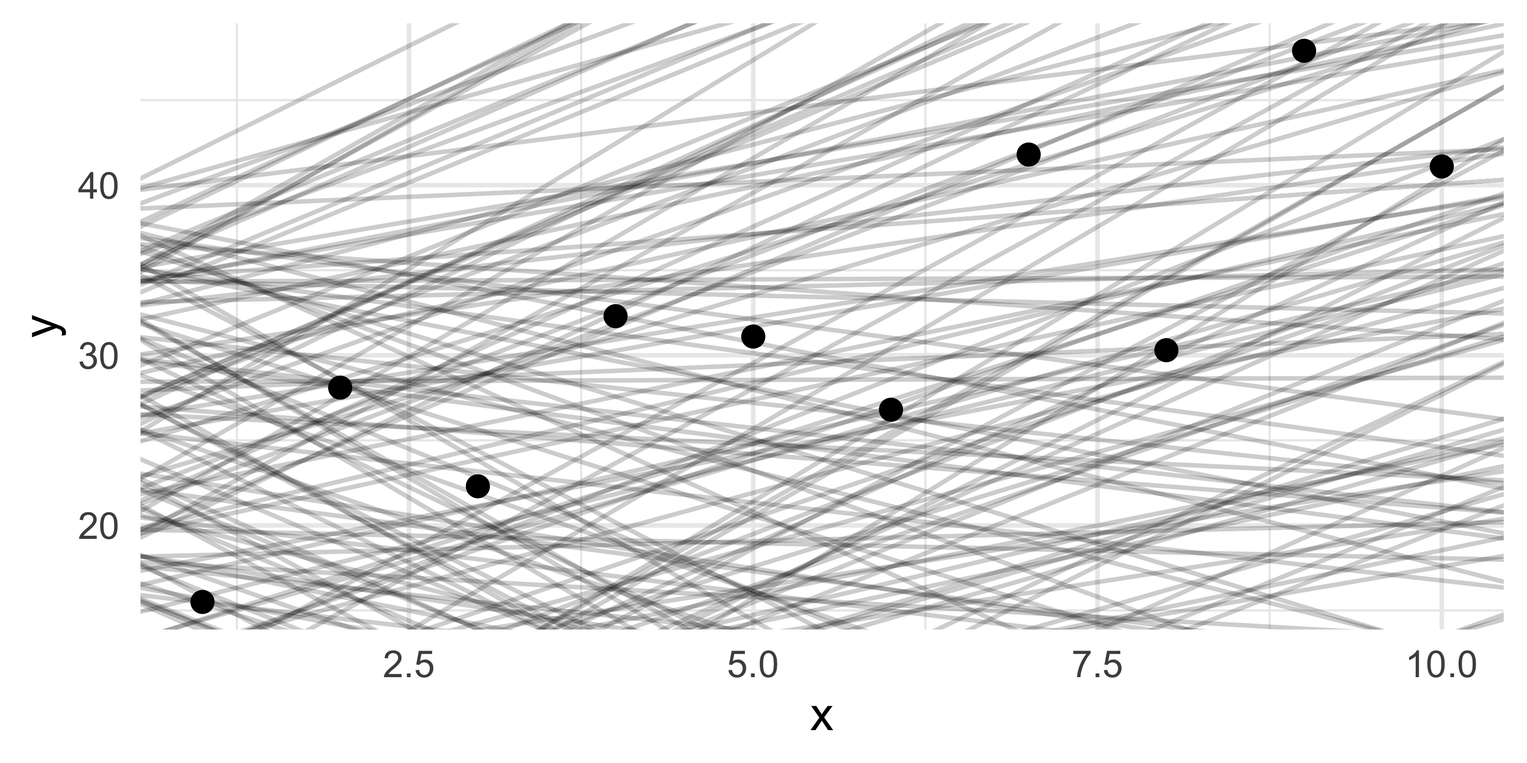
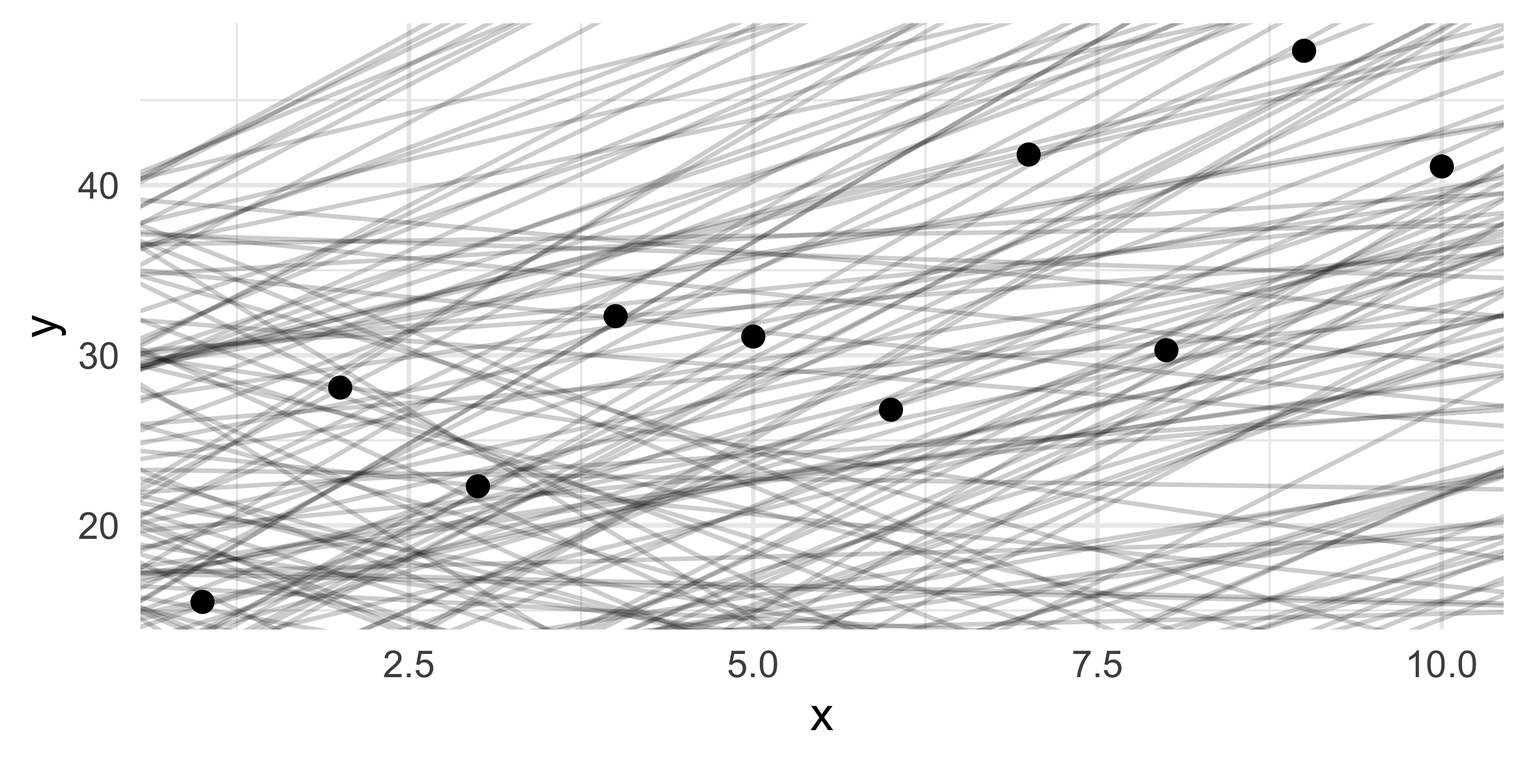
cleaning up slides

diff --git a/docs/slides.html b/docs/slides.html
@@ -231,8 +231,8 @@ y = \beta_0 + \beta_1 x_1 + \epsilon
 
 <img data-src="slides_files/figure-revealjs/unnamed-chunk-2-1.png" class="quarto-figure quarto-figure-center r-stretch" width="960"></section>
 <section>
-<section id="building-models" class="title-slide slide level1 center" data-background-color="black" data-background-image="media/contour.png" data-background-size="initial" data-background-position="right">
-<h1>Building Models</h1>
+<section id="how-are-models-built" class="title-slide slide level1 center" data-background-color="black" data-background-image="media/contour.png" data-background-size="initial" data-background-position="right">
+<h1>How Are Models Built</h1>
 
 </section>
 <section id="random-search" class="slide level2 smaller">
@@ -246,12 +246,12 @@ y = \beta_0 + \beta_1 x_1 + \epsilon
 <span id="cb1-3"><a href=""></a><span class="fu">summary</span>( models )</span></code></pre></div><button title="Copy to Clipboard" class="code-copy-button"><i class="bi"></i></button></div>
 <div class="cell-output cell-output-stdout">
 <pre><code>     beta0             beta1        
- Min.   :-19.701   Min.   :-4.8742  
- 1st Qu.: -3.205   1st Qu.:-2.7951  
- Median : 10.277   Median :-0.3867  
- Mean   : 10.617   Mean   :-0.1997  
- 3rd Qu.: 25.748   3rd Qu.: 2.3198  
- Max.   : 39.165   Max.   : 4.9441  </code></pre>
+ Min.   :-19.874   Min.   :-4.9913  
+ 1st Qu.: -5.517   1st Qu.:-2.3993  
+ Median :  8.038   Median : 0.1583  
+ Mean   :  8.308   Mean   : 0.1111  
+ 3rd Qu.: 21.631   3rd Qu.: 2.6810  
+ Max.   : 39.533   Max.   : 4.9827  </code></pre>
 </div>
 </div>
 </div><div class="column" style="width:50%;">
@@ -272,14 +272,25 @@ y = \beta_0 + \beta_1 x_1 + \epsilon
 <h2>Building A Model - Search Criterion</h2>
 
 <img data-src="slides_files/figure-revealjs/unnamed-chunk-5-1.png" class="quarto-figure quarto-figure-center r-stretch" width="960"></section>
+<section id="building-a-model---search-criterion-1" class="slide level2">
+<h2>Building A Model - Search Criterion</h2>
+
+<img data-src="slides_files/figure-revealjs/unnamed-chunk-6-1.png" class="quarto-figure quarto-figure-center r-stretch" width="960"></section>
 <section id="searching-random-model-space" class="slide level2">
 <h2>Searching Random Model Space</h2>
+<p>Define a function to sum the residual distance between each observation and the fit line, <span class="math inline">\(\epsilon = (y_i - \hat{y}_i)^2\)</span>.</p>
+<p>from</p>
+<p><span class="math display">\[
+y = \beta_0 + \beta_1 x_1 + \epsilon
+\]</span></p>
+<div class="fragment">
 <div class="cell" data-layout-align="center">
 <div class="code-copy-outer-scaffold"><div class="sourceCode cell-code" id="cb3"><pre class="sourceCode numberSource r number-lines code-with-copy"><code class="sourceCode r"><span id="cb3-1"><a href=""></a>model_distance <span class="ot">&lt;-</span> <span class="cf">function</span>( intercept, slope, X, Y ) {</span>
 <span id="cb3-2"><a href=""></a>  yhat <span class="ot">&lt;-</span> intercept <span class="sc">+</span> slope <span class="sc">*</span> X</span>
 <span id="cb3-3"><a href=""></a>  diff <span class="ot">&lt;-</span> Y <span class="sc">-</span> yhat</span>
 <span id="cb3-4"><a href=""></a>  <span class="fu">return</span>( <span class="fu">sqrt</span>( <span class="fu">mean</span>( diff <span class="sc">^</span> <span class="dv">2</span> ) ) )</span>
 <span id="cb3-5"><a href=""></a>}</span></code></pre></div><button title="Copy to Clipboard" class="code-copy-button"><i class="bi"></i></button></div>
+</div>
 </div>
 </section>
 <section id="searching-random-model-space-1" class="slide level2">
@@ -294,13 +305,13 @@ y = \beta_0 + \beta_1 x_1 + \epsilon
 <span id="cb4-7"><a href=""></a>}</span>
 <span id="cb4-8"><a href=""></a><span class="fu">head</span>( models )</span></code></pre></div><button title="Copy to Clipboard" class="code-copy-button"><i class="bi"></i></button></div>
 <div class="cell-output cell-output-stdout">
-<pre><code>        beta0      beta1     dist
-1  29.4771867 -4.2599426 32.82769
-2 -10.8590475  1.9510084 32.33478
-3   0.6078845  2.3252804 19.07712
-4  -2.2314267  2.3033720 21.93798
-5  32.3668526  4.6032549 27.09056
-6  11.5869291 -0.1791617 23.20218</code></pre>
+<pre><code>       beta0     beta1      dist
+1 11.2636153 -3.268664 42.323088
+2 -0.5801625 -3.021495 51.802924
+3 -2.5707176 -1.237829 42.891707
+4  6.8874964 -1.551918 35.844821
+5 13.8142026  1.772501  9.999886
+6 16.6033099 -1.491209 26.664868</code></pre>
 </div>
 </div>
 </section>
@@ -313,7 +324,7 @@ y = \beta_0 + \beta_1 x_1 + \epsilon
 <div class="cell-output-display">
 <div class="quarto-figure quarto-figure-center">
 <figure>
-<p><img data-src="slides_files/figure-revealjs/unnamed-chunk-8-1.png" class="quarto-figure quarto-figure-center" width="960"></p>
+<p><img data-src="slides_files/figure-revealjs/unnamed-chunk-9-1.png" class="quarto-figure quarto-figure-center" width="960"></p>
 </figure>
 </div>
 </div>
@@ -342,7 +353,7 @@ y = \beta_0 + \beta_1 x_1 + \epsilon
 <span id="cb7-4"><a href=""></a>  <span class="fu">geom_point</span>()</span></code></pre></div><button title="Copy to Clipboard" class="code-copy-button"><i class="bi"></i></button></div>
 
 </div>
-<img data-src="slides_files/figure-revealjs/unnamed-chunk-10-1.png" class="quarto-figure quarto-figure-center r-stretch" width="960"></section>
+<img data-src="slides_files/figure-revealjs/unnamed-chunk-11-1.png" class="quarto-figure quarto-figure-center r-stretch" width="960"></section>
 <section id="systematic-grid-search" class="slide level2 smaller">
 <h2>Systematic Grid Search</h2>
 <p>We could then systematically search the <span class="math inline">\(\beta_0\)</span>, <span class="math inline">\(\beta_1\)</span> response space for the best set of coefficients.</p>
@@ -352,7 +363,7 @@ y = \beta_0 + \beta_1 x_1 + \epsilon
 <div class="cell-output-display">
 <div class="quarto-figure quarto-figure-center">
 <figure>
-<p><img data-src="slides_files/figure-revealjs/unnamed-chunk-11-1.png" class="quarto-figure quarto-figure-center" width="960"></p>
+<p><img data-src="slides_files/figure-revealjs/unnamed-chunk-12-1.png" class="quarto-figure quarto-figure-center" width="960"></p>
 </figure>
 </div>
 </div>
@@ -489,14 +500,28 @@ F-statistic: 16.57 on 1 and 8 DF,  p-value: 0.003581</code></pre>
 </section>
 <section id="tidying-model-output-with-broom" class="slide level2">
 <h2>Tidying Model Output with <code>broom</code></h2>
+<center>
+<img data-src="media/broom_logo.png">
+</center>
 <p>The <code>broom</code> package turns model objects into <code>tibble</code>s:</p>
 <ul>
 <li><code>tidy()</code>: one row per term (coefficients, <em>SE</em>, <em>t</em>, <em>P</em>)</li>
 <li><code>glance()</code>: one row per model (<span class="math inline">\(R^2\)</span>, <em>F</em>, <em>P</em>, AIC, …)</li>
 <li><code>augment()</code>: one row per observation (fitted values, residuals)</li>
 </ul>
+</section>
+<section id="installing-the-tidyverse-models" class="slide level2">
+<h2>Installing the Tidyverse Models</h2>
+<p>There are several packages that help tidy up our statistical models that can be installed by:</p>
 <div class="cell" data-layout-align="center">
-<div class="code-copy-outer-scaffold"><div class="sourceCode cell-code" id="cb22"><pre class="sourceCode numberSource r number-lines code-with-copy"><code class="sourceCode r"><span id="cb22-1"><a href=""></a><span class="fu">glance</span>( fit )</span></code></pre></div><button title="Copy to Clipboard" class="code-copy-button"><i class="bi"></i></button></div>
+<div class="code-copy-outer-scaffold"><div class="sourceCode cell-code" id="cb22"><pre class="sourceCode numberSource r number-lines code-with-copy"><code class="sourceCode r"><span id="cb22-1"><a href=""></a><span class="fu">install.packages</span>(<span class="st">"tidymodels"</span>)</span>
+<span id="cb22-2"><a href=""></a><span class="fu">library</span>( broom )</span></code></pre></div><button title="Copy to Clipboard" class="code-copy-button"><i class="bi"></i></button></div>
+</div>
+</section>
+<section id="tidying-model-output" class="slide level2 smaller">
+<h2>Tidying Model Output</h2>
+<div class="cell" data-layout-align="center">
+<div class="code-copy-outer-scaffold"><div class="sourceCode cell-code" id="cb23"><pre class="sourceCode numberSource r number-lines code-with-copy"><code class="sourceCode r"><span id="cb23-1"><a href=""></a><span class="fu">glance</span>( fit )</span></code></pre></div><button title="Copy to Clipboard" class="code-copy-button"><i class="bi"></i></button></div>
 <div class="cell-output cell-output-stdout">
 <pre><code># A tibble: 1 × 12
   r.squared adj.r.squared sigma statistic p.value    df logLik   AIC   BIC
@@ -505,15 +530,13 @@ F-statistic: 16.57 on 1 and 8 DF,  p-value: 0.003581</code></pre>
 # ℹ 3 more variables: deviance &lt;dbl&gt;, df.residual &lt;int&gt;, nobs &lt;int&gt;</code></pre>
 </div>
 </div>
-</section>
-<section id="the-overall-p-value" class="slide level2">
-<h2>The Overall <em>P</em>-value</h2>
-<p><code>anova( fit )</code> only gives the whole-model test when there is a single predictor; with more, it tests each term in turn. <code>glance()</code> always has it.</p>
+<div class="fragment">
 <div class="cell" data-layout-align="center">
-<div class="code-copy-outer-scaffold"><div class="sourceCode cell-code" id="cb24"><pre class="sourceCode numberSource r number-lines code-with-copy"><code class="sourceCode r"><span id="cb24-1"><a href=""></a><span class="fu">glance</span>( fit )<span class="sc">$</span>p.value</span></code></pre></div><button title="Copy to Clipboard" class="code-copy-button"><i class="bi"></i></button></div>
+<div class="code-copy-outer-scaffold"><div class="sourceCode cell-code" id="cb25"><pre class="sourceCode numberSource r number-lines code-with-copy"><code class="sourceCode r"><span id="cb25-1"><a href=""></a><span class="fu">glance</span>( fit )<span class="sc">$</span>p.value</span></code></pre></div><button title="Copy to Clipboard" class="code-copy-button"><i class="bi"></i></button></div>
 <div class="cell-output cell-output-stdout">
 <pre><code>    value 
 0.0035813 </code></pre>
+</div>
 </div>
 </div>
 </section></section>
@@ -525,24 +548,24 @@ F-statistic: 16.57 on 1 and 8 DF,  p-value: 0.003581</code></pre>
 <section id="model-diagnostics---residuals" class="slide level2">
 <h2>Model Diagnostics - Residuals</h2>
 <div class="cell" data-layout-align="center">
-<div class="code-copy-outer-scaffold"><div class="sourceCode cell-code" id="cb26"><pre class="sourceCode numberSource r number-lines code-with-copy"><code class="sourceCode r"><span id="cb26-1"><a href=""></a><span class="fu">plot</span>( fit, <span class="at">which =</span> <span class="dv">1</span> )</span></code></pre></div><button title="Copy to Clipboard" class="code-copy-button"><i class="bi"></i></button></div>
-
-</div>
-<img data-src="slides_files/figure-revealjs/unnamed-chunk-20-1.png" class="quarto-figure quarto-figure-center r-stretch" width="960"></section>
-<section id="normality-of-the-data" class="slide level2">
-<h2>Normality Of the Data</h2>
-<div class="cell" data-layout-align="center">
-<div class="code-copy-outer-scaffold"><div class="sourceCode cell-code" id="cb27"><pre class="sourceCode numberSource r number-lines code-with-copy"><code class="sourceCode r"><span id="cb27-1"><a href=""></a><span class="fu">plot</span>( fit, <span class="at">which =</span> <span class="dv">2</span> )</span></code></pre></div><button title="Copy to Clipboard" class="code-copy-button"><i class="bi"></i></button></div>
-
-</div>
-<img data-src="slides_files/figure-revealjs/unnamed-chunk-21-1.png" class="quarto-figure quarto-figure-center r-stretch" width="960"></section>
-<section id="leverage" class="slide level2">
-<h2>Leverage</h2>
-<div class="cell" data-layout-align="center">
-<div class="code-copy-outer-scaffold"><div class="sourceCode cell-code" id="cb28"><pre class="sourceCode numberSource r number-lines code-with-copy"><code class="sourceCode r"><span id="cb28-1"><a href=""></a><span class="fu">plot</span>( fit, <span class="at">which=</span><span class="dv">5</span> )</span></code></pre></div><button title="Copy to Clipboard" class="code-copy-button"><i class="bi"></i></button></div>
+<div class="code-copy-outer-scaffold"><div class="sourceCode cell-code" id="cb27"><pre class="sourceCode numberSource r number-lines code-with-copy"><code class="sourceCode r"><span id="cb27-1"><a href=""></a><span class="fu">plot</span>( fit, <span class="at">which =</span> <span class="dv">1</span> )</span></code></pre></div><button title="Copy to Clipboard" class="code-copy-button"><i class="bi"></i></button></div>
 
 </div>
 <img data-src="slides_files/figure-revealjs/unnamed-chunk-22-1.png" class="quarto-figure quarto-figure-center r-stretch" width="960"></section>
+<section id="normality-of-the-data" class="slide level2">
+<h2>Normality Of the Data</h2>
+<div class="cell" data-layout-align="center">
+<div class="code-copy-outer-scaffold"><div class="sourceCode cell-code" id="cb28"><pre class="sourceCode numberSource r number-lines code-with-copy"><code class="sourceCode r"><span id="cb28-1"><a href=""></a><span class="fu">plot</span>( fit, <span class="at">which =</span> <span class="dv">2</span> )</span></code></pre></div><button title="Copy to Clipboard" class="code-copy-button"><i class="bi"></i></button></div>
+
+</div>
+<img data-src="slides_files/figure-revealjs/unnamed-chunk-23-1.png" class="quarto-figure quarto-figure-center r-stretch" width="960"></section>
+<section id="leverage" class="slide level2">
+<h2>Leverage</h2>
+<div class="cell" data-layout-align="center">
+<div class="code-copy-outer-scaffold"><div class="sourceCode cell-code" id="cb29"><pre class="sourceCode numberSource r number-lines code-with-copy"><code class="sourceCode r"><span id="cb29-1"><a href=""></a><span class="fu">plot</span>( fit, <span class="at">which=</span><span class="dv">5</span> )</span></code></pre></div><button title="Copy to Clipboard" class="code-copy-button"><i class="bi"></i></button></div>
+
+</div>
+<img data-src="slides_files/figure-revealjs/unnamed-chunk-24-1.png" class="quarto-figure quarto-figure-center r-stretch" width="960"></section>
 <section id="decomposition-of-variance" class="slide level2">
 <h2>Decomposition of Variance</h2>
 <p>The terms in this table are:</p>
@@ -578,14 +601,14 @@ F-statistic: 16.57 on 1 and 8 DF,  p-value: 0.003581</code></pre>
 <p>The terms in this table are:</p>
 <ul>
 <li><p>The <span class="math inline">\(F\)</span>-statistic is from a known distribution and is defined by the ratio of Mean Squared values.</p></li>
-<li><p><code>Pr(&gt;F)</code> is the probability associated with the value of the <span class="math inline">\(F\)</span>-statistic and is dependent upon the degrees of freedom for the model and residuals.</p></li>
+<li><p><code>Pr(&gt;F)</code> is the probability associated with the value of the <span class="math inline">\(F\)</span>-statistic and is dependent upon the degrees of freedom for the <em>entire model</em> and residuals.</p></li>
 </ul>
 </section>
 <section id="decomposition-of-variance-4" class="slide level2">
 <h2>Decomposition of Variance</h2>
 <p>The classis ANOVA Table</p>
 <div class="cell" data-layout-align="center">
-<div class="code-copy-outer-scaffold"><div class="sourceCode cell-code" id="cb29"><pre class="sourceCode numberSource r number-lines code-with-copy"><code class="sourceCode r"><span id="cb29-1"><a href=""></a><span class="fu">anova</span>( fit )</span></code></pre></div><button title="Copy to Clipboard" class="code-copy-button"><i class="bi"></i></button></div>
+<div class="code-copy-outer-scaffold"><div class="sourceCode cell-code" id="cb30"><pre class="sourceCode numberSource r number-lines code-with-copy"><code class="sourceCode r"><span id="cb30-1"><a href=""></a><span class="fu">anova</span>( fit )</span></code></pre></div><button title="Copy to Clipboard" class="code-copy-button"><i class="bi"></i></button></div>
 <div class="cell-output cell-output-stdout">
 <pre><code>Analysis of Variance Table
 
@@ -597,11 +620,27 @@ Residuals  8 274.58   34.32
 Signif. codes:  0 '***' 0.001 '**' 0.01 '*' 0.05 '.' 0.1 ' ' 1</code></pre>
 </div>
 </div>
+<p>&nbsp;</p>
+<div class="fragment">
+<div class="callout callout-note callout-titled callout-style-default">
+<div class="callout-body">
+<div class="callout-title">
+<div class="callout-icon-container">
+<i class="callout-icon"></i>
+</div>
+<p><strong>Note</strong></p>
+</div>
+<div class="callout-content">
+<p><strong>Warning:</strong> <code>anova( fit )</code> only gives the whole-model test when there is a <strong>single predictor</strong>; with more, it tests each term sequentially.</p>
+</div>
+</div>
+</div>
+</div>
 </section>
 <section id="variance-explained" class="slide level2">
 <h2>Variance Explained</h2>
 <div class="cell" data-layout-align="center">
-<div class="code-copy-outer-scaffold"><div class="sourceCode cell-code" id="cb31"><pre class="sourceCode numberSource r number-lines code-with-copy"><code class="sourceCode r"><span id="cb31-1"><a href=""></a><span class="fu">summary</span>( fit )</span></code></pre></div><button title="Copy to Clipboard" class="code-copy-button"><i class="bi"></i></button></div>
+<div class="code-copy-outer-scaffold"><div class="sourceCode cell-code" id="cb32"><pre class="sourceCode numberSource r number-lines code-with-copy"><code class="sourceCode r"><span id="cb32-1"><a href=""></a><span class="fu">summary</span>( fit )</span></code></pre></div><button title="Copy to Clipboard" class="code-copy-button"><i class="bi"></i></button></div>
 <div class="cell-output cell-output-stdout">
 <pre><code>
 Call:
@@ -632,8 +671,8 @@ R^2 = \frac{SS_{Model}}{SS_{Total}}
 \]</span></p>
 <div class="fragment">
 <div class="cell" data-layout-align="center">
-<div class="code-copy-outer-scaffold"><div class="sourceCode cell-code" id="cb33"><pre class="sourceCode numberSource r number-lines code-with-copy"><code class="sourceCode r"><span id="cb33-1"><a href=""></a><span class="fu">c</span>( <span class="st">`</span><span class="at">Regression R^2</span><span class="st">`</span> <span class="ot">=</span> <span class="fu">summary</span>( fit )<span class="sc">$</span>r.squared,</span>
-<span id="cb33-2"><a href=""></a>   <span class="st">`</span><span class="at">Squared Correlation</span><span class="st">`</span> <span class="ot">=</span> <span class="fu">as.numeric</span>( <span class="fu">cor.test</span>( df<span class="sc">$</span>x, df<span class="sc">$</span>y )<span class="sc">$</span>estimate<span class="sc">^</span><span class="dv">2</span> ) )</span></code></pre></div><button title="Copy to Clipboard" class="code-copy-button"><i class="bi"></i></button></div>
+<div class="code-copy-outer-scaffold"><div class="sourceCode cell-code" id="cb34"><pre class="sourceCode numberSource r number-lines code-with-copy"><code class="sourceCode r"><span id="cb34-1"><a href=""></a><span class="fu">c</span>( <span class="st">`</span><span class="at">Regression R^2</span><span class="st">`</span> <span class="ot">=</span> <span class="fu">summary</span>( fit )<span class="sc">$</span>r.squared,</span>
+<span id="cb34-2"><a href=""></a>   <span class="st">`</span><span class="at">Squared Correlation</span><span class="st">`</span> <span class="ot">=</span> <span class="fu">as.numeric</span>( <span class="fu">cor.test</span>( df<span class="sc">$</span>x, df<span class="sc">$</span>y )<span class="sc">$</span>estimate<span class="sc">^</span><span class="dv">2</span> ) )</span></code></pre></div><button title="Copy to Clipboard" class="code-copy-button"><i class="bi"></i></button></div>
 <div class="cell-output cell-output-stdout">
 <pre><code>     Regression R^2 Squared Correlation 
           0.6743782           0.6743782 </code></pre>
@@ -648,25 +687,25 @@ R^2 = \frac{SS_{Model}}{SS_{Total}}
 <h2>Helper Functions</h2>
 <p>Grabbing the predicted values <span class="math inline">\(\hat{y}\)</span> from the model.</p>
 <div class="cell" data-layout-align="center">
-<div class="code-copy-outer-scaffold"><div class="sourceCode cell-code" id="cb35"><pre class="sourceCode numberSource r number-lines code-with-copy"><code class="sourceCode r"><span id="cb35-1"><a href=""></a>df<span class="sc">$</span>yhat <span class="ot">&lt;-</span> <span class="fu">predict</span>( fit )</span>
-<span id="cb35-2"><a href=""></a>df <span class="sc">|&gt;</span> </span>
-<span id="cb35-3"><a href=""></a>  <span class="fu">ggplot</span>( <span class="fu">aes</span>(x,yhat) ) <span class="sc">+</span> <span class="fu">geom_line</span>() <span class="sc">+</span> <span class="fu">geom_point</span>() <span class="sc">+</span></span>
-<span id="cb35-4"><a href=""></a>  <span class="fu">geom_point</span>( <span class="fu">aes</span>(<span class="at">y=</span>y), <span class="at">col=</span><span class="st">"darkred"</span>, <span class="at">size=</span><span class="dv">2</span>)</span></code></pre></div><button title="Copy to Clipboard" class="code-copy-button"><i class="bi"></i></button></div>
+<div class="code-copy-outer-scaffold"><div class="sourceCode cell-code" id="cb36"><pre class="sourceCode numberSource r number-lines code-with-copy"><code class="sourceCode r"><span id="cb36-1"><a href=""></a>df<span class="sc">$</span>yhat <span class="ot">&lt;-</span> <span class="fu">predict</span>( fit )</span>
+<span id="cb36-2"><a href=""></a>df <span class="sc">|&gt;</span> </span>
+<span id="cb36-3"><a href=""></a>  <span class="fu">ggplot</span>( <span class="fu">aes</span>(x,yhat) ) <span class="sc">+</span> <span class="fu">geom_line</span>() <span class="sc">+</span> <span class="fu">geom_point</span>() <span class="sc">+</span></span>
+<span id="cb36-4"><a href=""></a>  <span class="fu">geom_point</span>( <span class="fu">aes</span>(<span class="at">y=</span>y), <span class="at">col=</span><span class="st">"darkred"</span>, <span class="at">size=</span><span class="dv">2</span>)</span></code></pre></div><button title="Copy to Clipboard" class="code-copy-button"><i class="bi"></i></button></div>
 
 </div>
-<img data-src="slides_files/figure-revealjs/unnamed-chunk-26-1.png" class="quarto-figure quarto-figure-center r-stretch" width="960"></section>
+<img data-src="slides_files/figure-revealjs/unnamed-chunk-28-1.png" class="quarto-figure quarto-figure-center r-stretch" width="960"></section>
 <section id="helper-functions---residuals" class="slide level2">
 <h2>Helper Functions - Residuals</h2>
 <p>The residuals are the distances between the observed value and its corresponding value on the fitted line.</p>
 <div class="cell" data-layout-align="center">
-<div class="code-copy-outer-scaffold"><div class="sourceCode cell-code" id="cb36"><pre class="sourceCode numberSource r number-lines code-with-copy"><code class="sourceCode r"><span id="cb36-1"><a href=""></a>df<span class="sc">$</span>residuals <span class="ot">&lt;-</span> <span class="fu">residuals</span>( fit ) </span>
-<span id="cb36-2"><a href=""></a>df <span class="sc">|&gt;</span></span>
-<span id="cb36-3"><a href=""></a>  <span class="fu">ggplot</span>( <span class="fu">aes</span>(yhat, residuals) ) <span class="sc">+</span> </span>
-<span id="cb36-4"><a href=""></a>  <span class="fu">geom_point</span>() <span class="sc">+</span> </span>
-<span id="cb36-5"><a href=""></a>  <span class="fu">geom_abline</span>( <span class="at">slope=</span><span class="dv">0</span>,<span class="at">intercept=</span><span class="dv">0</span>, <span class="at">color=</span><span class="st">"red"</span>)</span></code></pre></div><button title="Copy to Clipboard" class="code-copy-button"><i class="bi"></i></button></div>
+<div class="code-copy-outer-scaffold"><div class="sourceCode cell-code" id="cb37"><pre class="sourceCode numberSource r number-lines code-with-copy"><code class="sourceCode r"><span id="cb37-1"><a href=""></a>df<span class="sc">$</span>residuals <span class="ot">&lt;-</span> <span class="fu">residuals</span>( fit ) </span>
+<span id="cb37-2"><a href=""></a>df <span class="sc">|&gt;</span></span>
+<span id="cb37-3"><a href=""></a>  <span class="fu">ggplot</span>( <span class="fu">aes</span>(yhat, residuals) ) <span class="sc">+</span> </span>
+<span id="cb37-4"><a href=""></a>  <span class="fu">geom_point</span>() <span class="sc">+</span> </span>
+<span id="cb37-5"><a href=""></a>  <span class="fu">geom_abline</span>( <span class="at">slope=</span><span class="dv">0</span>,<span class="at">intercept=</span><span class="dv">0</span>, <span class="at">color=</span><span class="st">"red"</span>)</span></code></pre></div><button title="Copy to Clipboard" class="code-copy-button"><i class="bi"></i></button></div>
 
 </div>
-<img data-src="slides_files/figure-revealjs/unnamed-chunk-27-1.png" class="quarto-figure quarto-figure-center r-stretch" width="960"></section></section>
+<img data-src="slides_files/figure-revealjs/unnamed-chunk-29-1.png" class="quarto-figure quarto-figure-center r-stretch" width="960"></section></section>
 <section>
 <section id="comparing-models" class="title-slide slide level1 center" data-background-color="black" data-background-image="media/contour.png" data-background-size="initial" data-background-position="right">
 <h1>Comparing Models</h1>
@@ -684,10 +723,10 @@ R^2 = \frac{SS_{Model}}{SS_{Total}}
 <h2>New Data Set</h2>
 <p>Let’s start by looking at some air quality data, that is built into <code>R</code> as an example data set.</p>
 <div class="cell" data-layout-align="center">
-<div class="code-copy-outer-scaffold"><div class="sourceCode cell-code" id="cb37"><pre class="sourceCode numberSource r number-lines code-with-copy"><code class="sourceCode r"><span id="cb37-1"><a href=""></a>airquality <span class="sc">|&gt;</span></span>
-<span id="cb37-2"><a href=""></a>  <span class="fu">select</span>( <span class="sc">-</span>Month, <span class="sc">-</span>Day ) <span class="sc">|&gt;</span></span>
-<span id="cb37-3"><a href=""></a>  <span class="fu">filter</span>( <span class="sc">!</span><span class="fu">is.na</span>( Ozone ), <span class="sc">!</span><span class="fu">is.na</span>( Solar.R ) ) <span class="ot">-&gt;</span> df.air</span>
-<span id="cb37-4"><a href=""></a><span class="fu">summary</span>( df.air )</span></code></pre></div><button title="Copy to Clipboard" class="code-copy-button"><i class="bi"></i></button></div>
+<div class="code-copy-outer-scaffold"><div class="sourceCode cell-code" id="cb38"><pre class="sourceCode numberSource r number-lines code-with-copy"><code class="sourceCode r"><span id="cb38-1"><a href=""></a>airquality <span class="sc">|&gt;</span></span>
+<span id="cb38-2"><a href=""></a>  <span class="fu">select</span>( <span class="sc">-</span>Month, <span class="sc">-</span>Day ) <span class="sc">|&gt;</span></span>
+<span id="cb38-3"><a href=""></a>  <span class="fu">filter</span>( <span class="sc">!</span><span class="fu">is.na</span>( Ozone ), <span class="sc">!</span><span class="fu">is.na</span>( Solar.R ) ) <span class="ot">-&gt;</span> df.air</span>
+<span id="cb38-4"><a href=""></a><span class="fu">summary</span>( df.air )</span></code></pre></div><button title="Copy to Clipboard" class="code-copy-button"><i class="bi"></i></button></div>
 <div class="cell-output cell-output-stdout">
 <pre><code>     Ozone          Solar.R           Wind            Temp      
  Min.   :  1.0   Min.   :  7.0   Min.   : 2.30   Min.   :57.00  
@@ -706,9 +745,9 @@ R^2 = \frac{SS_{Model}}{SS_{Total}}
 y = \beta_0 + \beta_1 x_1 + \epsilon
 \]</span></p>
 <div class="cell" data-layout-align="center">
-<div class="code-copy-outer-scaffold"><div class="sourceCode cell-code" id="cb39"><pre class="sourceCode numberSource r number-lines code-with-copy"><code class="sourceCode r"><span id="cb39-1"><a href=""></a>fit.solar <span class="ot">&lt;-</span> <span class="fu">lm</span>( Ozone <span class="sc">~</span> Solar.R, <span class="at">data =</span> df.air )</span>
-<span id="cb39-2"><a href=""></a>fit.temp <span class="ot">&lt;-</span> <span class="fu">lm</span>( Ozone <span class="sc">~</span> Temp, <span class="at">data =</span> df.air )</span>
-<span id="cb39-3"><a href=""></a>fit.wind <span class="ot">&lt;-</span> <span class="fu">lm</span>( Ozone <span class="sc">~</span> Wind, <span class="at">data =</span> df.air )</span></code></pre></div><button title="Copy to Clipboard" class="code-copy-button"><i class="bi"></i></button></div>
+<div class="code-copy-outer-scaffold"><div class="sourceCode cell-code" id="cb40"><pre class="sourceCode numberSource r number-lines code-with-copy"><code class="sourceCode r"><span id="cb40-1"><a href=""></a>fit.solar <span class="ot">&lt;-</span> <span class="fu">lm</span>( Ozone <span class="sc">~</span> Solar.R, <span class="at">data =</span> df.air )</span>
+<span id="cb40-2"><a href=""></a>fit.temp <span class="ot">&lt;-</span> <span class="fu">lm</span>( Ozone <span class="sc">~</span> Temp, <span class="at">data =</span> df.air )</span>
+<span id="cb40-3"><a href=""></a>fit.wind <span class="ot">&lt;-</span> <span class="fu">lm</span>( Ozone <span class="sc">~</span> Wind, <span class="at">data =</span> df.air )</span></code></pre></div><button title="Copy to Clipboard" class="code-copy-button"><i class="bi"></i></button></div>
 </div>
 </section>
 <section id="base-models---what-influences-ozone-1" class="slide level2">
@@ -750,9 +789,9 @@ y = \beta_0 + \beta_1 x_1 + \epsilon
 <p>Multiple Regression Model - Including more than one predictors.</p>
 <p><span class="math inline">\(y = \beta_0 + \beta_1 x_1 + \beta_2 x_2 + \epsilon\)</span></p>
 <div class="cell" data-layout-align="center">
-<div class="code-copy-outer-scaffold"><div class="sourceCode cell-code" id="cb40"><pre class="sourceCode numberSource r number-lines code-with-copy"><code class="sourceCode r"><span id="cb40-1"><a href=""></a>fit.temp.wind <span class="ot">&lt;-</span> <span class="fu">lm</span>( Ozone <span class="sc">~</span> Temp <span class="sc">+</span> Wind, <span class="at">data =</span> df.air )</span>
-<span id="cb40-2"><a href=""></a>fit.temp.solar <span class="ot">&lt;-</span> <span class="fu">lm</span>( Ozone <span class="sc">~</span> Temp <span class="sc">+</span> Solar.R, <span class="at">data =</span> df.air )</span>
-<span id="cb40-3"><a href=""></a>fit.wind.solar <span class="ot">&lt;-</span> <span class="fu">lm</span>( Ozone <span class="sc">~</span> Wind <span class="sc">+</span> Solar.R, <span class="at">data =</span> df.air )</span></code></pre></div><button title="Copy to Clipboard" class="code-copy-button"><i class="bi"></i></button></div>
+<div class="code-copy-outer-scaffold"><div class="sourceCode cell-code" id="cb41"><pre class="sourceCode numberSource r number-lines code-with-copy"><code class="sourceCode r"><span id="cb41-1"><a href=""></a>fit.temp.wind <span class="ot">&lt;-</span> <span class="fu">lm</span>( Ozone <span class="sc">~</span> Temp <span class="sc">+</span> Wind, <span class="at">data =</span> df.air )</span>
+<span id="cb41-2"><a href=""></a>fit.temp.solar <span class="ot">&lt;-</span> <span class="fu">lm</span>( Ozone <span class="sc">~</span> Temp <span class="sc">+</span> Solar.R, <span class="at">data =</span> df.air )</span>
+<span id="cb41-3"><a href=""></a>fit.wind.solar <span class="ot">&lt;-</span> <span class="fu">lm</span>( Ozone <span class="sc">~</span> Wind <span class="sc">+</span> Solar.R, <span class="at">data =</span> df.air )</span></code></pre></div><button title="Copy to Clipboard" class="code-copy-button"><i class="bi"></i></button></div>
 </div>
 </section>
 <section id="more-complicated-models-1" class="slide level2">
@@ -808,7 +847,7 @@ y = \beta_0 + \beta_1 x_1 + \epsilon
 <h2>For Completeness</h2>
 <p>How about all the predictors. <span class="math inline">\(y = \beta_0 + \beta_1 x_1 + \beta_2 x_2 + \beta_3 x_3 + \epsilon\)</span></p>
 <div class="cell" data-layout-align="center">
-<div class="code-copy-outer-scaffold"><div class="sourceCode cell-code" id="cb41"><pre class="sourceCode numberSource r number-lines code-with-copy"><code class="sourceCode r"><span id="cb41-1"><a href=""></a>fit.all <span class="ot">&lt;-</span> <span class="fu">lm</span>( Ozone <span class="sc">~</span> Solar.R <span class="sc">+</span> Temp <span class="sc">+</span> Wind, <span class="at">data =</span> df.air )</span></code></pre></div><button title="Copy to Clipboard" class="code-copy-button"><i class="bi"></i></button></div>
+<div class="code-copy-outer-scaffold"><div class="sourceCode cell-code" id="cb42"><pre class="sourceCode numberSource r number-lines code-with-copy"><code class="sourceCode r"><span id="cb42-1"><a href=""></a>fit.all <span class="ot">&lt;-</span> <span class="fu">lm</span>( Ozone <span class="sc">~</span> Solar.R <span class="sc">+</span> Temp <span class="sc">+</span> Wind, <span class="at">data =</span> df.air )</span></code></pre></div><button title="Copy to Clipboard" class="code-copy-button"><i class="bi"></i></button></div>
 </div>
 </section>
 <section id="for-completeness-1" class="slide level2">

diff --git a/docs/narrative.html b/docs/narrative.html
@@ -180,13 +180,13 @@ y_{ij} = \beta_0 + \beta_1 x_{i} + \epsilon_j
 <span id="cb2-2"><a href="#cb2-2" aria-hidden="true" tabindex="-1"></a>                      <span class="at">beta1 =</span> <span class="fu">runif</span>(<span class="dv">250</span>, <span class="sc">-</span><span class="dv">5</span>, <span class="dv">5</span>))</span>
 <span id="cb2-3"><a href="#cb2-3" aria-hidden="true" tabindex="-1"></a><span class="fu">summary</span>( models )</span></code></pre></div><button title="Copy to Clipboard" class="code-copy-button"><i class="bi"></i></button></div>
 <div class="cell-output cell-output-stdout">
-<pre><code>     beta0             beta1         
- Min.   :-19.512   Min.   :-4.98957  
- 1st Qu.: -5.175   1st Qu.:-2.62239  
- Median :  8.010   Median : 0.07703  
- Mean   :  9.474   Mean   : 0.04914  
- 3rd Qu.: 24.578   3rd Qu.: 2.70573  
- Max.   : 39.095   Max.   : 4.94903  </code></pre>
+<pre><code>     beta0             beta1        
+ Min.   :-19.323   Min.   :-4.9683  
+ 1st Qu.: -2.994   1st Qu.:-2.7996  
+ Median : 11.598   Median :-0.2728  
+ Mean   : 12.358   Mean   :-0.2261  
+ 3rd Qu.: 28.777   3rd Qu.: 2.1924  
+ Max.   : 39.959   Max.   : 4.9904  </code></pre>
 </div>
 </div>
 <p>We can plot these and the original data and all these randomly defined models.</p>
@@ -237,13 +237,13 @@ y_{ij} = \beta_0 + \beta_1 x_{i} + \epsilon_j
 <span id="cb6-7"><a href="#cb6-7" aria-hidden="true" tabindex="-1"></a>}</span>
 <span id="cb6-8"><a href="#cb6-8" aria-hidden="true" tabindex="-1"></a><span class="fu">head</span>( models )</span></code></pre></div><button title="Copy to Clipboard" class="code-copy-button"><i class="bi"></i></button></div>
 <div class="cell-output cell-output-stdout">
-<pre><code>        beta0      beta1      dist
-1   5.3495391  2.4927005 13.707467
-2  -0.7516303  0.5968423 30.222620
-3  21.7982646  1.5468551  6.249448
-4 -17.3055045 -3.6544090 71.631296
-5 -13.4460791  2.2809812 33.053686
-6 -18.2484308  1.3959679 42.760083</code></pre>
+<pre><code>      beta0      beta1      dist
+1 29.597007 -2.7065285 23.479966
+2 22.380098  3.5294050 11.646511
+3  7.631923 -2.9288647 43.563286
+4 23.001225 -0.6879533 16.563370
+5 -2.344306 -1.1450858 42.117239
+6 34.862633  0.1866381  9.690695</code></pre>
 </div>
 </div>
 <p>If we look through these models, we can see which are better than others by sorting in increasing squared distance.</p>
